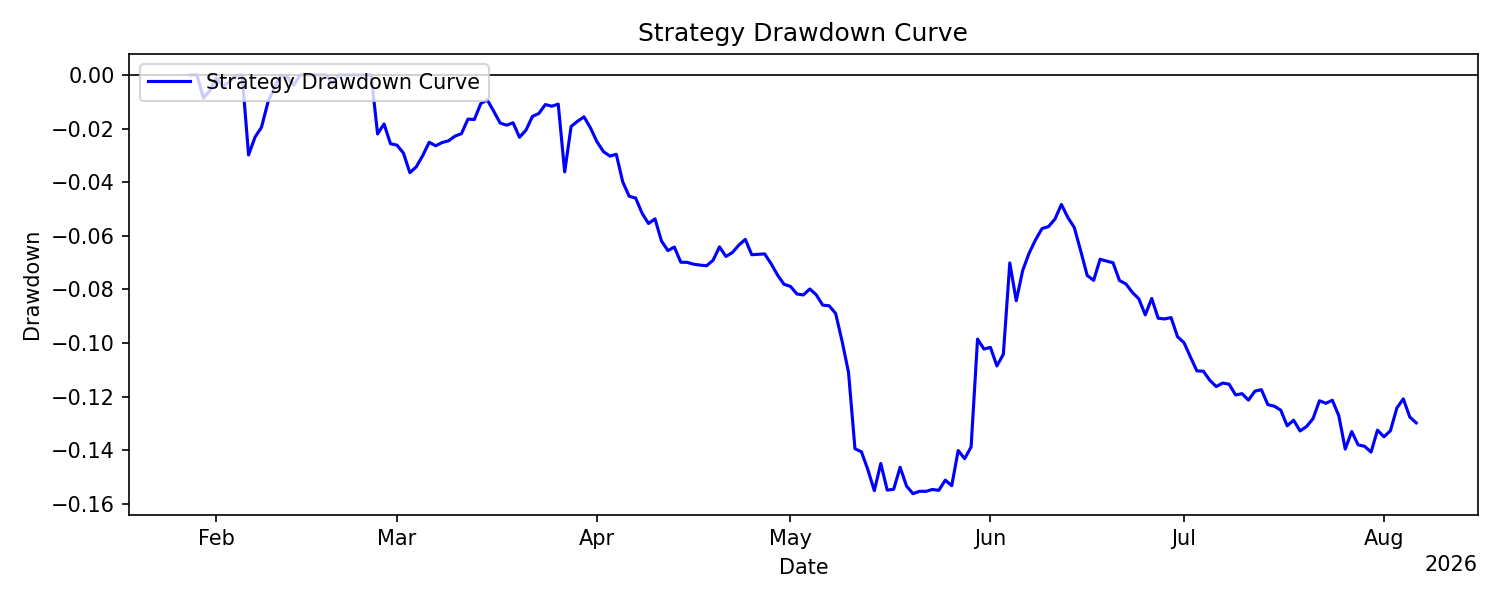
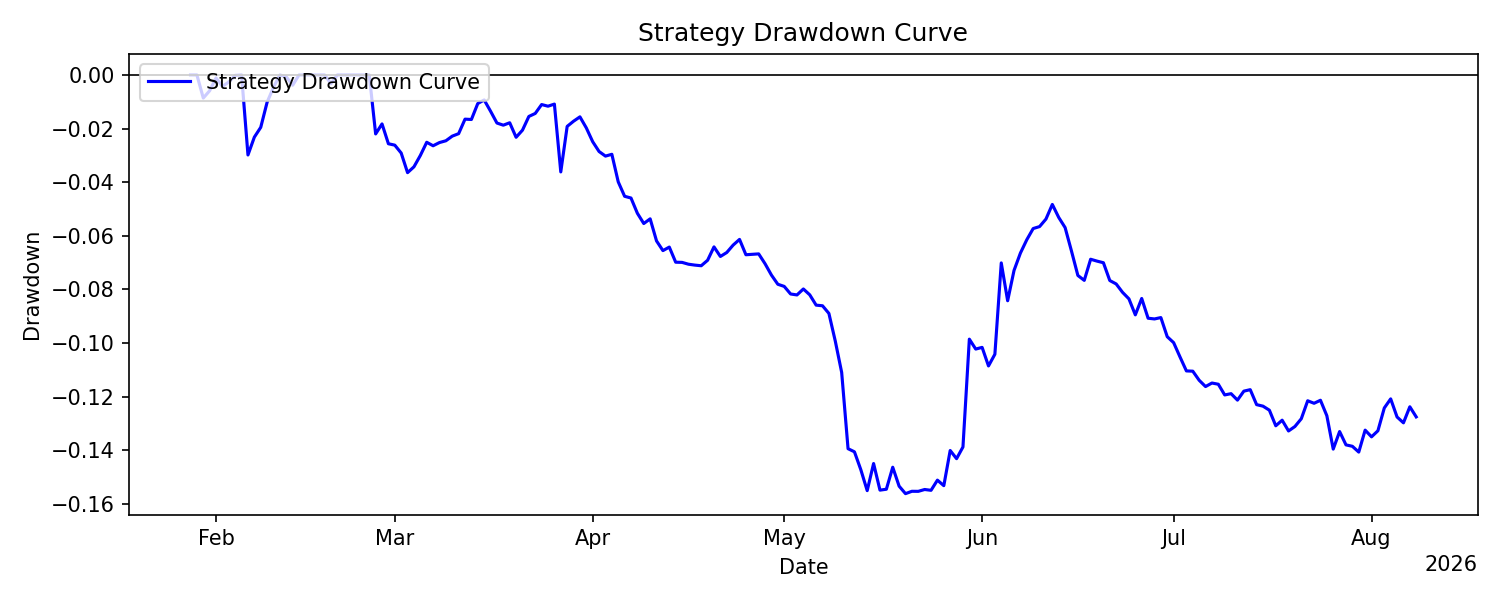
Update reports: 2026-08-08 00:02:36 UTC

diff --git a/README.md b/README.md
@@ -24,26 +24,26 @@ All results are live and reported net of transaction costs and slippage.
 <!-- METRICS_START -->
 | metric                       |        values |
 |:-----------------------------|--------------:|
-| Number of Observations       | 191           |
-| Mean Daily Return            |  -0.000392224 |
-| Daily Volatility             |   0.00838892  |
-| Mean Annualized Return       |  -0.143162    |
-| Annualized Volatility        |   0.16027     |
+| Number of Observations       | 193           |
+| Mean Daily Return            |  -0.000374808 |
+| Daily Volatility             |   0.00836637  |
+| Mean Annualized Return       |  -0.136805    |
+| Annualized Volatility        |   0.159839    |
 | Maximum Drawdown             |  -0.156146    |
-| Max Drawdown Duration (Days) | 162           |
-| Sharpe                       |  -0.893253    |
-| Sortino                      |  -1.23949     |
-| Calmar                       |  -0.916846    |
-| CAGR                         |  -0.144384    |
-| Skewness                     |   0.675812    |
-| Excess Kurtosis              |   8.65207     |
-| Win Rate                     |   0.465969    |
-| Profit Factor                |   0.86358     |
-| VaR 1%                       |  -0.0271702   |
+| Max Drawdown Duration (Days) | 164           |
+| Sharpe                       |  -0.855889    |
+| Sortino                      |  -1.19012     |
+| Calmar                       |  -0.876134    |
+| CAGR                         |  -0.138867    |
+| Skewness                     |   0.670733    |
+| Excess Kurtosis              |   8.64979     |
+| Win Rate                     |   0.466321    |
+| Profit Factor                |   0.869297    |
+| VaR 1%                       |  -0.0271107   |
 | CVaR 1%                      |  -0.030925    |
-| VaR 5%                       |  -0.0109593   |
+| VaR 5%                       |  -0.0108848   |
 | CVaR 5%                      |  -0.0201626   |
-| Correlation with BTC         |   0.00943769  |
+| Correlation with BTC         |   0.00818351  |
 <!-- METRICS_END -->
 
 ## Sharpe Statistics
@@ -55,14 +55,14 @@ All results are live and reported net of transaction costs and slippage.
 | metric                     |   values |
 |:---------------------------|---------:|
 | alpha                      |   0.05   |
-| t-statistic                |  -0.6462 |
-| p-value                    |   0.519  |
-| Daily Sharpe Ratio         |  -0.0468 |
-| Annualized Sharpe Ratio    |  -0.8933 |
-| Sharpe Standard Error      |   1.4117 |
-| C.I. Lower Bound           |  -3.6602 |
-| C.I. Upper Bound           |   1.8737 |
-| Bootstrap C.I. Lower Bound |  -3.988  |
-| Bootstrap C.I. Upper Bound |   2.4709 |
+| t-statistic                |  -0.6224 |
+| p-value                    |   0.5344 |
+| Daily Sharpe Ratio         |  -0.0448 |
+| Annualized Sharpe Ratio    |  -0.8559 |
+| Sharpe Standard Error      |   1.403  |
+| C.I. Lower Bound           |  -3.6057 |
+| C.I. Upper Bound           |   1.8939 |
+| Bootstrap C.I. Lower Bound |  -4.0381 |
+| Bootstrap C.I. Upper Bound |   2.5581 |
 <!-- SHARPE_END -->
 
